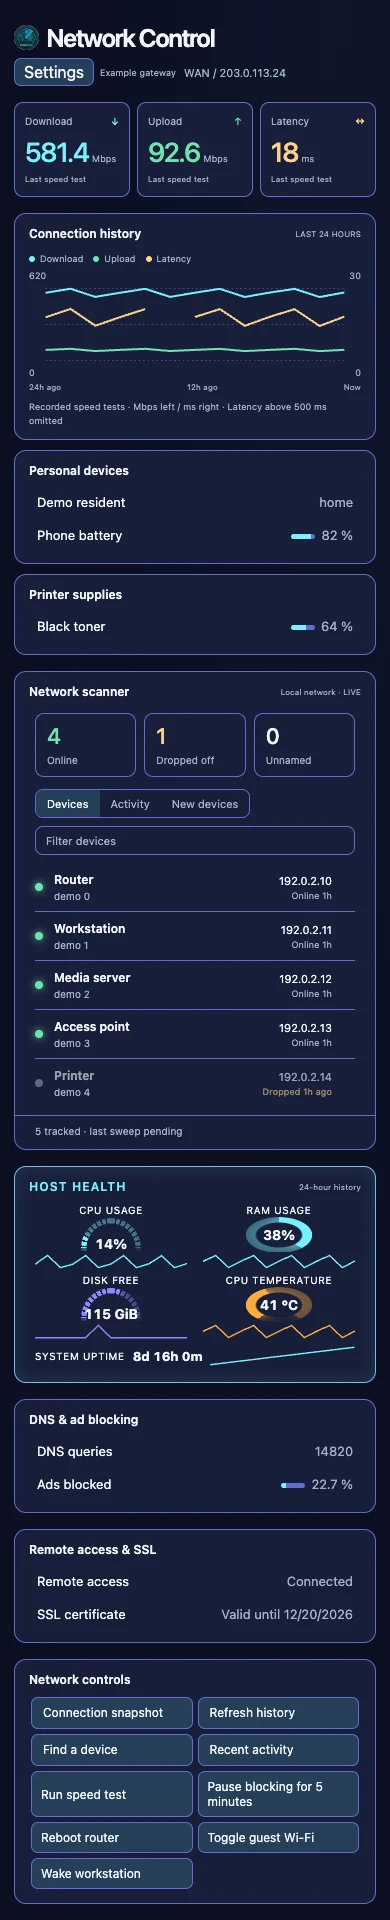
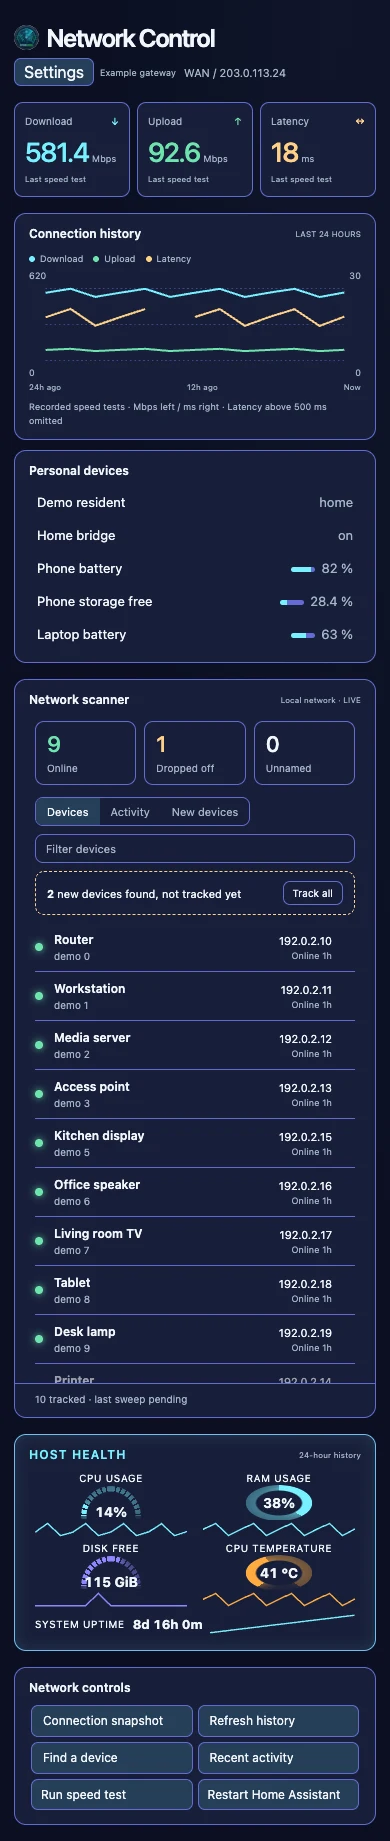
Match gallery screenshots to the live dashboard layout

Changed region(s): [[0.0308, 0.0, 0.9846, 1.0], [0.9538, 0.2787, 0.9846, 0.3096]]

diff --git a/docs/demo.html b/docs/demo.html
@@ -21,41 +21,34 @@ entity('sensor.speedtest_upload', 92.6, 'Upload', 'Mbps');
 entity('sensor.speedtest_ping', 18, 'Latency', 'ms');
 entity('sensor.demo_wan_ip', '203.0.113.24', 'WAN address');
 entity('person.resident', 'home', 'Demo resident');
+entity('binary_sensor.demo_bridge', 'on', 'Home bridge');
 entity('sensor.demo_phone_battery', 82, 'Phone battery', '%');
-entity('sensor.demo_printer_black_toner_remaining', 64, 'Black toner', '%');
+entity('sensor.demo_phone_storage', 28.4, 'Phone storage free', '%');
+entity('sensor.demo_laptop_battery', 63, 'Laptop battery', '%');
 entity('sensor.demo_cpu', 14, 'CPU', '%');
 entity('sensor.demo_ram', 38, 'RAM', '%');
 entity('sensor.demo_disk', 115, 'Free disk', 'GiB', {free_percent: 62});
 entity('sensor.demo_temp', 41, 'CPU temperature', '°C');
 entity('sensor.demo_boot', new Date(now - 748800000).toISOString(), 'Host boot', null, {device_class:'timestamp'});
-entity('sensor.demo_dns', 14820, 'DNS queries today');
-entity('sensor.demo_blocked', 22.7, 'Ads blocked', '%');
-entity('binary_sensor.demo_vpn', 'on', 'VPN');
-entity('sensor.demo_certificate', new Date(now + 2678400000).toISOString(), 'Certificate expiry', null, {device_class:'timestamp'});
-entity('switch.demo_pihole', 'on', 'Pi-hole');
-entity('switch.demo_guest', 'off', 'Guest Wi-Fi');
-entity('button.demo_router', 'unknown', 'Router reboot');
-entity('button.demo_wake', 'unknown', 'Wake workstation');
 
-const trackers = ['Router', 'Workstation', 'Media server', 'Access point', 'Printer'].map((name, i) => {
+const trackers = ['Router', 'Workstation', 'Media server', 'Access point', 'Printer', 'Kitchen display', 'Office speaker', 'Living room TV', 'Tablet', 'Desk lamp', 'Studio speaker', 'Guest phone'].map((name, i) => {
   const entity_id = 'device_tracker.demo_' + i;
-  entity(entity_id, i === 4 ? 'not_home' : 'home', name, null, {ip:'192.0.2.' + (10 + i)});
-  return {entity_id, platform:'nmap_tracker', name, disabled_by:null};
+  const pending = i >= 10;
+  if (!pending) entity(entity_id, i === 4 ? 'not_home' : 'home', name, null, {ip:'192.0.2.' + (10 + i)});
+  return {entity_id, platform:'nmap_tracker', name, disabled_by:pending ? 'integration' : null};
 });
 const card = document.querySelector('yanke-network-control');
 card.setConfig({
   router_name:'Example gateway', wan_sensor:'sensor.demo_wan_ip', show_wan_ip:true,
-  personal_entities:['person.resident','sensor.demo_phone_battery'],
+  show_printer:'never',
+  personal_entities:['person.resident','binary_sensor.demo_bridge','sensor.demo_phone_battery','sensor.demo_phone_storage','sensor.demo_laptop_battery'],
+  enable_restart:true,
   cpu_sensor:'sensor.demo_cpu', memory_sensor:'sensor.demo_ram', disk_sensor:'sensor.demo_disk',
   temperature_sensor:'sensor.demo_temp', uptime_sensor:'sensor.demo_boot',
-  dns_queries_sensor:'sensor.demo_dns', dns_blocked_sensor:'sensor.demo_blocked',
-  remote_access_entity:'binary_sensor.demo_vpn', ssl_entity:'sensor.demo_certificate',
-  pihole_switch:'switch.demo_pihole', guest_wifi_entity:'switch.demo_guest',
-  router_reboot_entity:'button.demo_router', wake_entities:['button.demo_wake'],
 });
 const config = {
   states, devices:{}, entities:{}, user:{is_admin:true},
-  services:{homeassistant:{update_entity:{}},pi_hole:{disable:{}},switch:{toggle:{}},button:{press:{}}},
+  services:{homeassistant:{update_entity:{},restart:{}}},
   callService: async () => {},
   callWS: async () => trackers,
   callApi: async (_, path) => {

diff --git a/docs/theme-gallery.md b/docs/theme-gallery.md
@@ -1,6 +1,6 @@
 # Network Control theme gallery
 
-Desktop and mobile screenshots use the same fictional devices and sample readings. The mobile screenshots are 390 pixels wide and show the full scrollable dashboard. Select an image to open it at full size. **Follow Appearance** shows an example shared palette.
+Desktop and mobile screenshots show the same layout with fictional devices and sample readings. The gallery shows speed readings, connection history, the network scanner, host health, personal devices, and network controls. The mobile screenshots are 390 pixels wide and show the full scrollable dashboard. Select an image to open it at full size. **Follow Appearance** shows an example shared palette.
 
 [Return to setup instructions](../README.md)
 
